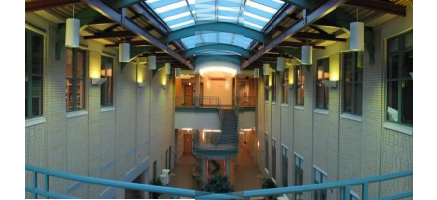
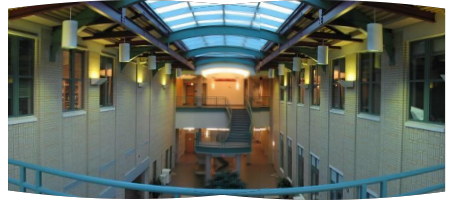
update

diff --git a/3/a/index.html b/3/a/index.html
@@ -3,6 +3,7 @@
 <head>
     <meta charset="UTF-8">
     <title>Image Mosaicing Assignment</title>
+    <script src="https://cdn.jsdelivr.net/npm/mathjax@3/es5/tex-mml-chtml.js"></script>
     <style>
         body {
             font-family: Arial, sans-serif;
@@ -203,11 +204,11 @@ H1 = [[1.447739337700669759e+00, 4.322275120828126399e-02, -1.284721206179840181
     </div>
 
     <h2>A.5: Bells & Whistles (Cylindrical Mapping)</h2>
+    <p>The idea for the cylindrical warp here is simple: Instead of using the homography matrix, warp each image as if they are cylindrical. Use the equations \( x = f \tan(\theta) + c_x \) and \( y = f \frac{h}{\cos(\theta)} + c_y \), where \(f\) is the focal length, \(\theta\) is the viewing angle from the center, and \(c_x\) \(c_y\) are the center coordinates, to find the corresponding pixel in the original image, then use bilinear interpolation to remap the pixels. Then manually adjust f and offset to get the best result.</p>
     <div class="image-row">
         <div class="image-container">
             <img src="cmu_cylindrical_mosaic.png" alt="Cylindrical Warp CMU">
             <div class="caption">Cylindrical Warped CMU</div>
-            <div class="caption">Note that there is some overlap of the railing in the middle, likely because it was too close to the camera.</div>
         </div>
     </div>
 
